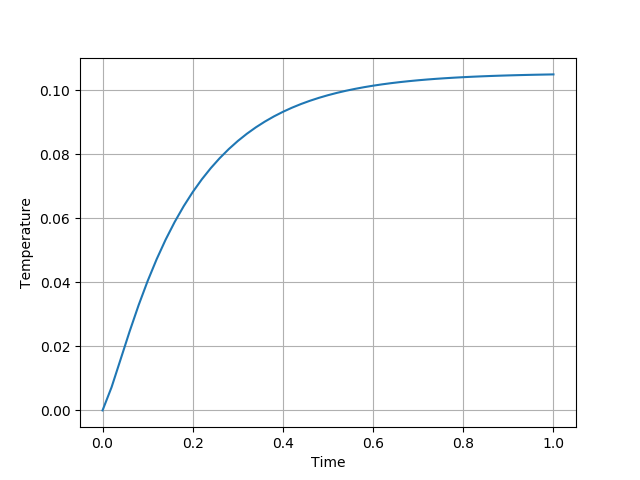
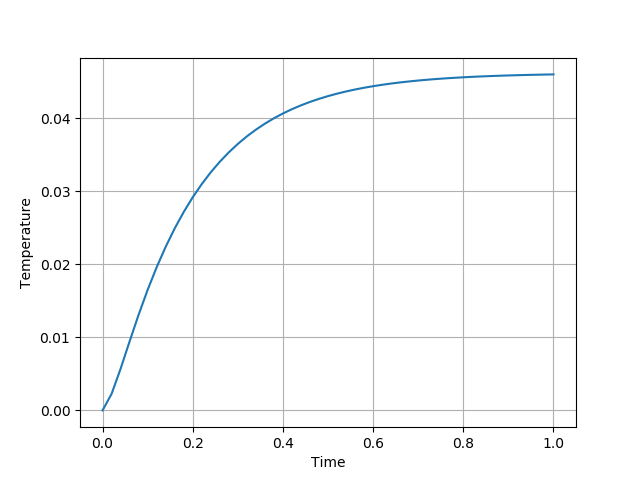
10 -> 50

diff --git a/Homework/HW4/HW4 Questions.md b/Homework/HW4/HW4 Questions.md
@@ -64,7 +64,7 @@ Assume that we want to experiment with a piece of new material. The thermal diff
 
 ## Problem 1: Parameter Inverse Problem in 1D
 
-We first consider the 1D case. In this problem, the material is a rod $\Omega=[0,1]$. We consider a homogeneous (zero) fixed boundary condition on the right side, and an insulated boundary on the left side. The initial temperature is zero everywhere, i.e., $u(x, 0)=0$, $x\in [0,1]$. The source term is $f(x, t) = \exp(-10(x-0.5)^2)$, and $\kappa(x)$ is a function of space
+We first consider the 1D case. In this problem, the material is a rod $\Omega=[0,1]$. We consider a homogeneous (zero) fixed boundary condition on the right side, and an insulated boundary on the left side. The initial temperature is zero everywhere, i.e., $u(x, 0)=0$, $x\in [0,1]$. The source term is $f(x, t) = \exp(-50(x-0.5)^2)$, and $\kappa(x)$ is a function of space
 
 $$\kappa(x) = a + bx$$
 
